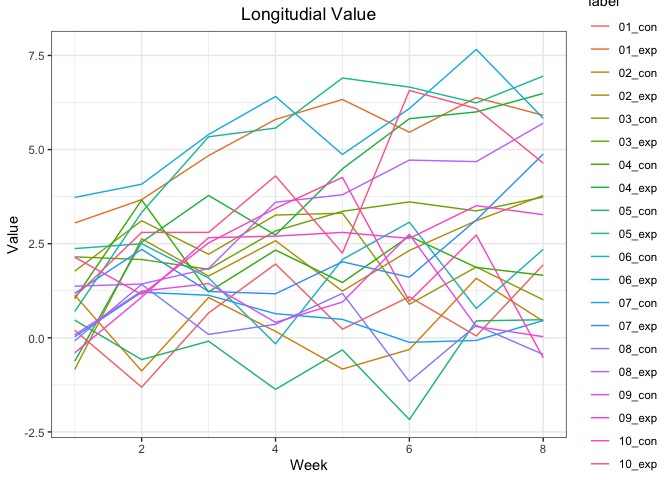
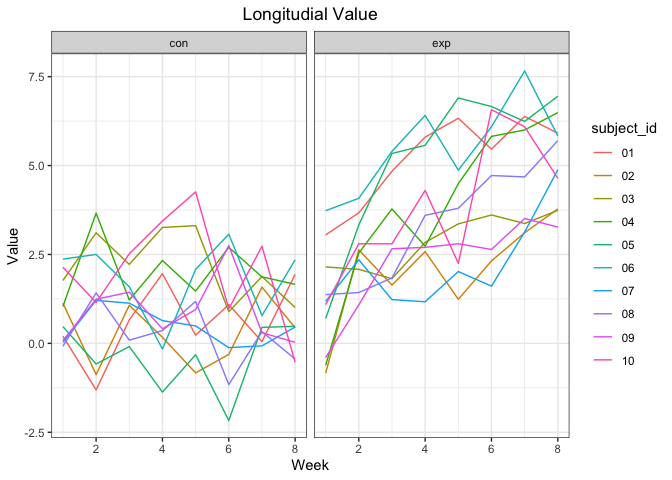
solved problem 3

diff --git a/p8105_hw5_pt2632.md b/p8105_hw5_pt2632.md
@@ -1,16 +1,13 @@
 HW5
 ================
-2023-11-02
+2023-11-03
 
 ``` r
 library(tidyverse)
+library(latex2exp)
 ```
 
 ## Problem 1
-
-The Washington Post has gathered data on homicides in 50 large U.S.
-cities and made the data available through a GitHub repository here. You
-can read their accompanying article here.
 
 Describe the raw data.
 
@@ -21,12 +18,29 @@ homicide = read_csv("./datasets/homicide-data.csv") |>
 
 There are 52179 rows and 13 columns in the dataset.
 
-**Variables**: - \`\`
+**Variables**: - `uid`: unique identifier
 
-Create a city_state variable (e.g. “Baltimore, MD”) and then summarize
-within cities to obtain the total number of homicides and the number of
-unsolved homicides (those for which the disposition is “Closed without
-arrest” or “Open/No arrest”).
+- `reported_date`: date of homicide accident
+
+- `victim_last`: last name of victim
+
+- `victim_first`: first name of victim
+
+- `victim_race`: race name of victim
+
+- `victim_age`: age name of victim
+
+- `victim_sex`: sex name of victim
+
+- `city`: city location of homicide accident
+
+- `state`: state location of homicide accident
+
+- `lat`: latitude location of homicide accident
+
+- `lon`: longitude location of homicide accident
+
+- `disposition`: disposition outcome of homicide accident
 
 ``` r
 homicide |> 
@@ -283,48 +297,45 @@ control arm and an experimental arm. Data for each participant is
 included in a separate file, and file names include the subject ID and
 arm.
 
-Create a tidy dataframe containing data from all participants, including
-the subject ID, arm, and observations over time:
-
 ``` r
 pth = "./datasets/data/"
-data_files = list.files(pth)
+
+data_files = tibble(
+        filename = list.files(pth)
+)
+
 extract_info = function(filename, pth){
         tibble(
                 read_csv(str_c(pth, filename))
         )
 }
-longitudial_data = tibble(
-        id = str_extract(data_files, pattern = "\\d+"),
-        arm = str_extract(data_files, pattern = "^[a-zA-Z]+"),
-        data = map(data_files, extract_info, pth)
-        ) |> unnest(data)
+
+longitudial_data = data_files |>
+        mutate(
+                subject_id = str_extract(filename, pattern = "\\d+"),
+                arm = str_extract(filename, pattern = "^[a-zA-Z]+"),
+                data = map(filename, extract_info, pth)
+        ) |> 
+        unnest(data)
 ```
 
-Start with a dataframe containing all file names; the list.files
-function will help Iterate over file names and read in data for each
-subject using purrr::map and saving the result as a new variable in the
-dataframe
-
-Tidy the result; manipulate file names to include control arm and
-subject ID, make sure weekly observations are “tidy”, and do any other
-tidying that’s necessary
-
-Make a spaghetti plot showing observations on each subject over time,
-and comment on differences between groups.
+Make a spaghetti plot showing observations on each subject over time.
 
 ``` r
 longitudial_data |> 
         pivot_longer(starts_with("week_"), names_prefix = "week_", names_to = "week") |>
-        mutate(label = str_c(id, arm, sep = "_"), week = as.numeric(week)) |>
-        ggplot(aes(x = week, y = value, color = label)) +
+        mutate(week = as.numeric(week)) |>
+        ggplot(aes(x = week, y = value, color = subject_id)) +
         geom_path() +
         theme_bw() +
         labs(x = "Week", y = "Value", title = "Longitudial Value") +
-        theme(plot.title = element_text(hjust = 0.5))
+        theme(plot.title = element_text(hjust = 0.5)) + 
+        facet_grid(. ~ arm)
 ```
 
-![](p8105_hw5_pt2632_files/figure-gfm/unnamed-chunk-9-1.png)<!-- -->
+![](p8105_hw5_pt2632_files/figure-gfm/unnamed-chunk-9-1.png)<!-- --> The
+values of `con` group are fluctuating in specific range while that of
+`exp` group are with significant increasing trend along with the time.
 
 ## Problem 3
 
@@ -333,27 +344,95 @@ it is likely that a true effect will be detected – put differently,
 whether a false null hypothesis will be rejected. The probability that a
 false null hypothesis is rejected is referred to as power, and it
 depends on several factors, including: the sample size; the effect size;
-and the error variance. In this problem, you will conduct a simulation
-to explore power in a one-sample t-test.
+and the error variance.
 
-First set the following design elements:
+### Dataset Generation
 
-Fix n=30 Fix σ=5 Set μ=0 . Generate 5000 datasets from the model
+``` r
+trail_count = 5000
+exp_data = tibble(
+        mu = 1:6
+) |> 
+        mutate(data = map(mu, function(k){
+                tibble(
+                        serial = 1:trail_count,
+                        hypo_test = map(1:trail_count, function(i, mu = k){
+                                data = rnorm(n = 30, mean = mu, sd = 5)
+                                test_obj = t.test(data)
+                                broom::tidy(test_obj)
+                        })
+                )
+                
+                })
+               ) |>
+        unnest(data) |> 
+        unnest(hypo_test)
+```
 
-x∼Normal\[μ,σ\]
+### Plots
 
-For each dataset, save μ̂ and the p-value arising from a test of H:μ=0
-using α=0.05 . Hint: to obtain the estimate and p-value, use broom::tidy
-to clean the output of t.test.
+1.  Make a plot showing the proportion of times the null was rejected
+    (the power of the test) on the y axis and the true value of $\mu$ on
+    the x axis. Describe the association between effect size and power.
 
-Repeat the above for μ={1,2,3,4,5,6} , and complete the following:
+``` r
+exp_data |>
+        filter(p.value < 0.05) |>
+        group_by(mu) |>
+        summarise(count = n(), rej_count= n()) |>
+        ggplot(aes(x = mu, y = rej_count)) +
+        geom_point(color = "steelblue") + 
+        geom_path(color = "steelblue", linewidth = 1.2) +
+        theme_bw() +
+        labs(x = TeX("$\\mu$"), y = TeX("Rejection count"), title = TeX("Rejection count - $\\mu$")) +
+        theme(plot.title = element_text(hjust = 0.5))
+```
 
-Make a plot showing the proportion of times the null was rejected (the
-power of the test) on the y axis and the true value of μ on the x axis.
-Describe the association between effect size and power. Make a plot
-showing the average estimate of μ̂ on the y axis and the true value of μ
-on the x axis. Make a second plot (or overlay on the first) the average
-estimate of μ̂ only in samples for which the null was rejected on the y
-axis and the true value of μ on the x axis. Is the sample average of μ̂
-across tests for which the null is rejected approximately equal to the
-true value of μ ? Why or why not?
+![](p8105_hw5_pt2632_files/figure-gfm/unnamed-chunk-11-1.png)<!-- -->
+Association between effect size and power: In the figuer, the larger
+$\mu$ leads to the higher rejection count, which equals to the higher
+power. So the larger the effect size, the higher the power.
+
+2.  Make a plot showing the average estimate of $\hat{\mu}$ on the y
+    axis and the true value of $\mu$ on the x axis.
+
+``` r
+exp_data |>
+        group_by(mu) |>
+        summarise(mean_estimation = mean(estimate)) |>
+        ggplot(aes(x = mu)) +
+        geom_line(aes(y = mu), lty = "dashed", color = "grey", linewidth = 1.2) +
+        geom_point(aes(y = mean_estimation), color = "steelblue") +
+        geom_path(aes(y = mean_estimation), color = "steelblue", linewidth = 1) +
+        theme_bw() +
+        labs(x = TeX("$\\mu$"), y = TeX("Mean estimation of $\\mu$"), title = TeX("Mean of $\\hat{\\mu}$ - $\\mu$")) +
+        theme(plot.title = element_text(hjust = 0.5))
+```
+
+![](p8105_hw5_pt2632_files/figure-gfm/unnamed-chunk-12-1.png)<!-- -->
+
+3.  Make a second plot (or overlay on the first) the average estimate of
+    $\hat{\mu}$ only in samples for which the null was rejected on the y
+    axis and the true value of $\mu$ on the x axis.
+
+``` r
+exp_data |>
+        filter(p.value < 0.05) |>
+        group_by(mu) |>
+        summarise(estimate_mean_rej = mean(estimate)) |>
+        ggplot(aes(x = mu)) +
+        geom_line(aes(y = mu), lty = "dashed", color = "grey", linewidth = 1.2) +
+        geom_point(aes(y = estimate_mean_rej), color = "steelblue") +
+        geom_path(aes(y = estimate_mean_rej), color = "steelblue", linewidth = 1) + 
+        theme_bw() +
+        labs(x = TeX("$\\mu$"), y = TeX("Mean estimation of $\\mu$ within rejected samples"), title = TeX("Mean of $\\hat{\\mu}$(Rejection) - $\\mu$")) +
+        theme(plot.title = element_text(hjust = 0.5))
+```
+
+![](p8105_hw5_pt2632_files/figure-gfm/unnamed-chunk-13-1.png)<!-- -->
+
+The sample average of $\hat{\mu}$ across tests for which the null is
+rejected gradually equal to the true value of $\mu$ in approximation
+along with the increasing of $\mu$.
+
+Reason:
